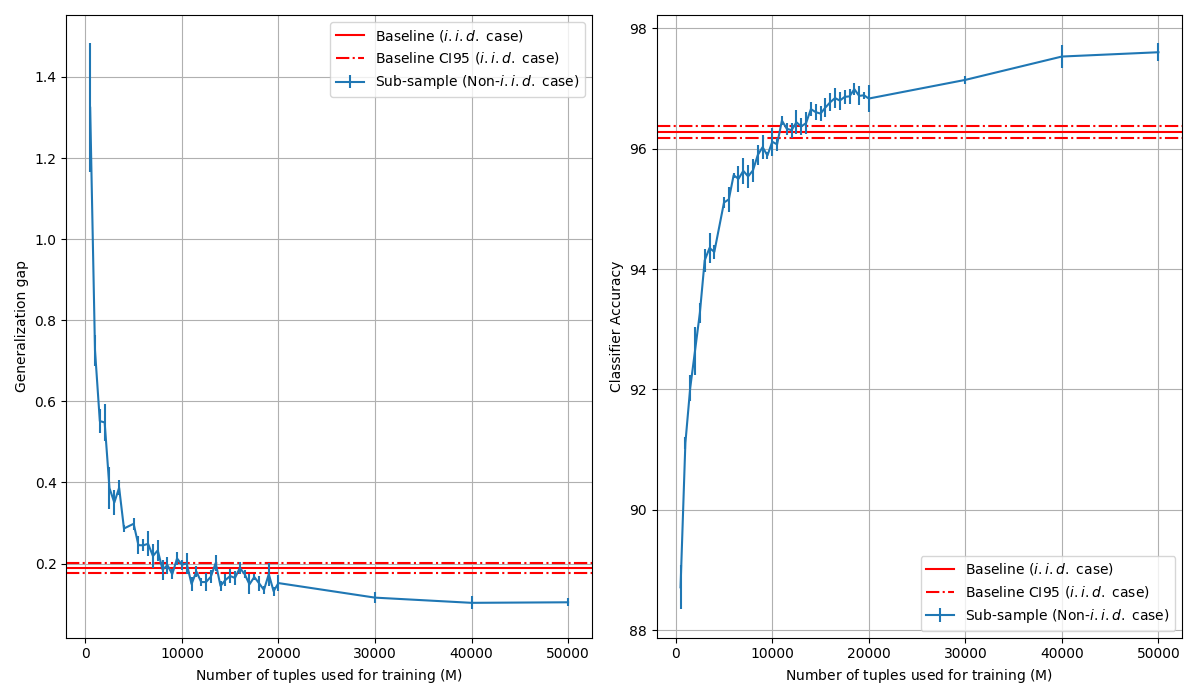
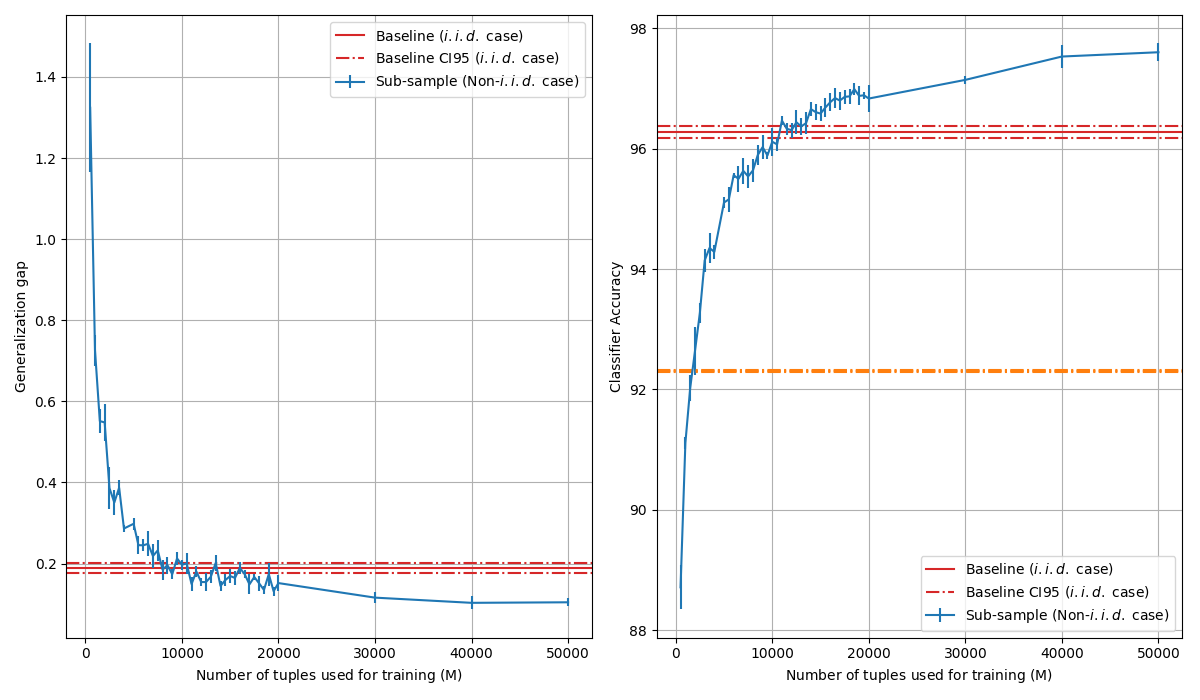
Checkpoint

Changed region(s): [[0.555, 0.51, 0.9867, 0.54], [0.555, 0.18, 0.9867, 0.21], [0.0617, 0.81, 0.4933, 0.84]]

diff --git a/plot_result.py b/plot_result.py
@@ -5,6 +5,7 @@ import matplotlib.pyplot as plt
 from argparse import ArgumentParser
 
 RESULT_FILE1 = 'results/ablation_study_iid_vs_noniid_mnist.csv'
+RESULT_FILE2 = 'results/ablation_study_iid_vs_noniid_mnist_only_cls.csv'
 
 def plot_errbar(ax, df, baseline, metric):
     tmp = df[df['regime'] == 'subsample']
@@ -13,9 +14,9 @@ def plot_errbar(ax, df, baseline, metric):
     mean_independent = baseline[metric].mean()
     std_independent = baseline[metric].std()
     CI95 = 1.96 * std_independent / np.sqrt(len(baseline))
-    ax.axhline(y=mean_independent, color='red', label='Baseline ($i.i.d.$ case)')
-    ax.axhline(y=mean_independent - CI95, color='red', linestyle='-.', label='Baseline CI95 ($i.i.d.$ case)')
-    ax.axhline(y=mean_independent + CI95, color='red', linestyle='-.')
+    ax.axhline(y=mean_independent, color='tab:red', label='Baseline ($i.i.d.$ case)')
+    ax.axhline(y=mean_independent - CI95, color='tab:red', linestyle='-.', label='Baseline CI95 ($i.i.d.$ case)')
+    ax.axhline(y=mean_independent + CI95, color='tab:red', linestyle='-.')
 
     # Plot the sub-sample regime
     mean = tmp.groupby('M')[metric].mean()
@@ -31,6 +32,7 @@ def plot_result1(output, figsize=(12, 7)):
 
     # Read the data file
     df = pd.read_csv(RESULT_FILE1)
+    df_cls = pd.read_csv(RESULT_FILE2)
     baseline = df[df['regime'] == 'independent']
 
     # Initialize plot
@@ -49,6 +51,14 @@ def plot_result1(output, figsize=(12, 7)):
     axes[1].set_ylabel("Classifier Accuracy")
     axes[1].legend()
     axes[1].grid()    
+
+    # Plot the range for cls without CRL
+    mean_acc = df_cls['val_acc'].mean()
+    std_acc = df_cls['val_acc'].std()
+    CI95 = 1.96 * std_acc / np.sqrt(len(df_cls))
+    axes[1].axhline(y=mean_acc, color='tab:orange', linestyle='-.', label='Baseline (without CRL)')
+    axes[1].axhline(y=mean_acc - CI95, color='tab:orange', linestyle='-.', label='Baseline CI95 (without CRL)')
+    axes[1].axhline(y=mean_acc + CI95, color='tab:orange', linestyle='-.')
 
     # Plot 
     plt.tight_layout()

diff --git a/train_cls.py b/train_cls.py
@@ -152,7 +152,6 @@ if __name__ == '__main__':
     parser.add_argument('--dataset', type=str, required=False, default='gaussian', help='The dataset to experiment on')
     parser.add_argument('--d_dim', type=int, required=False, default=64, help='Output dimensionality')
     parser.add_argument('--hidden_dim', type=int, required=False, default=128, help='Hidden dimensionality')
-    parser.add_argument('--L', type=int, required=False, default=2, help='Number of layers')
     parser.add_argument('--num_seeds', type=int, required=False, default=5, help='Number of experiments to repeat')
     parser.add_argument('--num_train', type=int, required=False, default=30000, help='Number of supervised data points to train on')
     parser.add_argument('--batch_size', type=int, required=False, default=64, help='Batch size')
@@ -178,10 +177,8 @@ if __name__ == '__main__':
         args['seed'] = j + 1
 
         # Get base model
-        base = get_model(in_dim=DATASET_TO_INDIM[args['dataset']], out_dim=args['d_dim'], hidden_dim=args['hidden_dim'], L=args['L'])
-        cls = nn.Linear(args['d_dim'], DATASET_TO_NUMCLS[args['dataset']]).to(base.device)
-        model = nn.Sequential( base, cls ).to(DEVICE)
-        best_val_acc_sup = train_classifier(args, model, train_dataloader, test_dataloader)
+        cls = nn.Linear(DATASET_TO_INDIM[args['dataset']], DATASET_TO_NUMCLS[args['dataset']]).to(DEVICE)
+        best_val_acc_sup = train_classifier(args, cls, train_dataloader, test_dataloader)
 
         # Save experiment result
         if args['outfile']:
